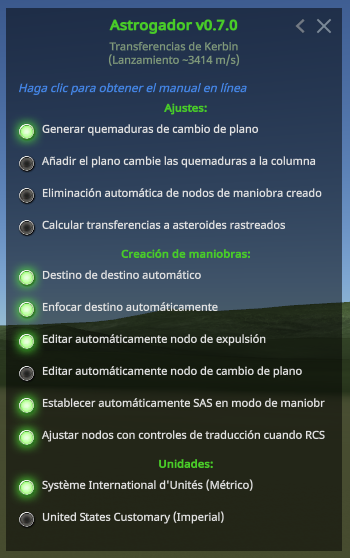
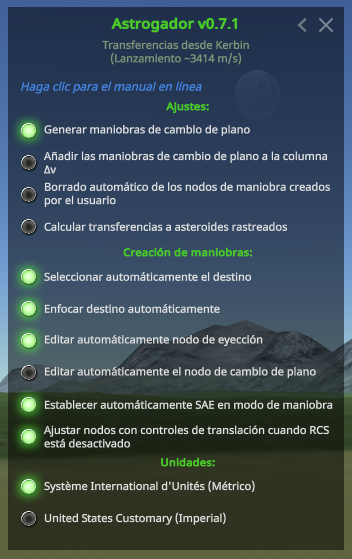
Wrap up Spanish translation work - Word wrap for the settings checkboxes - New settings screenshot

diff --git a/src/WrappingToggle.cs b/src/WrappingToggle.cs
@@ -5,8 +5,19 @@ namespace Astrogator {
 
 	using static ViewTools;
 
+	/// <summary>
+	/// Wrapper around DialogGUIToggle using a DialogGUILabel to wrap the text
+	/// </summary>
 	public class WrappingToggle : DialogGUIHorizontalLayout {
 
+		/// <summary>
+		/// Construct a toggle button with wrapping label
+		/// </summary>
+		/// <param name="set">Function to call when user toggles the toggle</param>
+		/// <param name="labelText">Text to show next to the toggle button</param>
+		/// <param name="selected">Function that returns true if the toggle should be on, false if off</param>
+		/// <param name="width">Horizontal space for the toggle, text will wrap if it's wider than this</param>
+		/// <param name="height">Vertical space for the toggle, default is auto size</param>
 		public WrappingToggle(Func<bool> set, string labelText, Callback<bool> selected, float width, float height = -1)
 			: base(width, height, 0, settingsPadding, TextAnchor.MiddleLeft)
 		{

diff --git a/src/ViewTools.cs b/src/ViewTools.cs
@@ -836,6 +836,9 @@ namespace Astrogator {
 		/// </summary>
 		public static RectOffset settingsPadding = new RectOffset(0, 0, 0, 0);
 
+		/// <summary>
+		/// Distance from the left inner margin to the right inner margin of main window
+		/// </summary>
 		public static float mainWindowInternalWidth = mainWindowMinWidth - mainWindowPadding.left - 2 * mainWindowPadding.right;
 
 		/// <summary>
